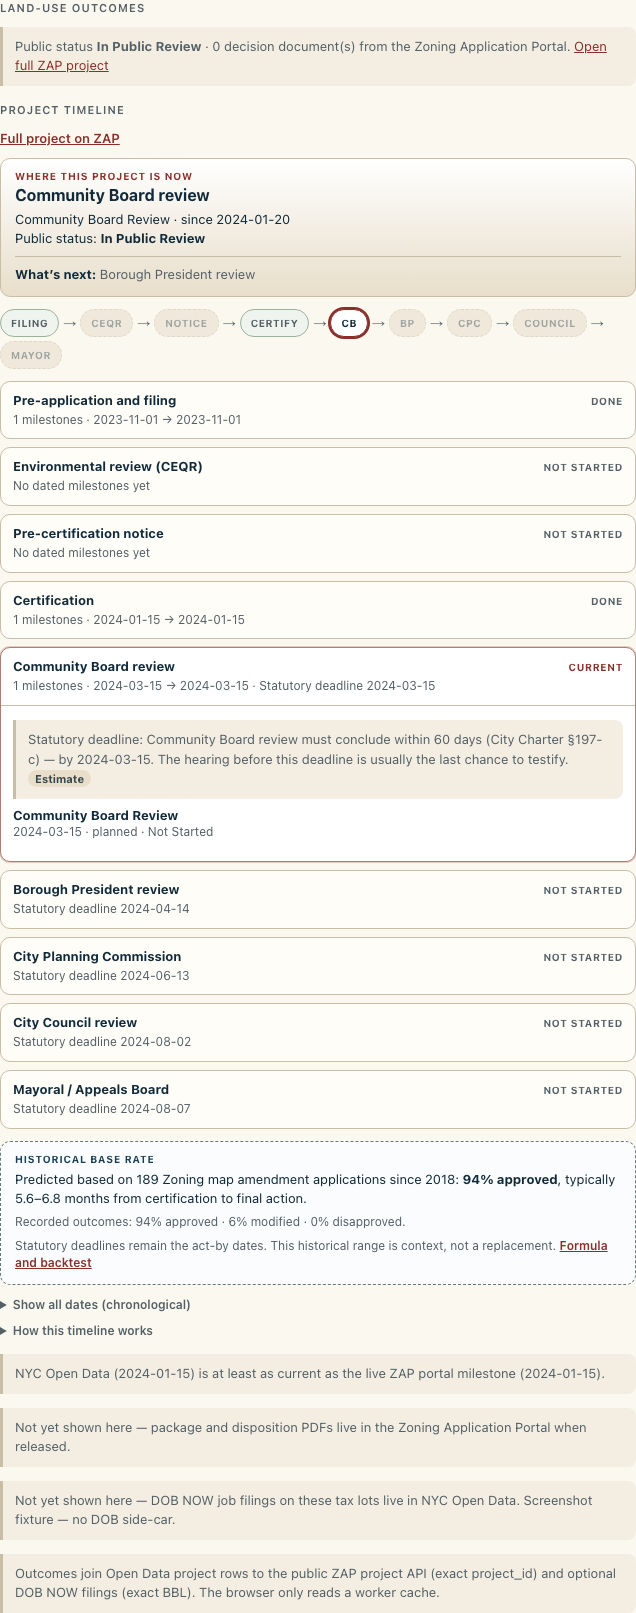
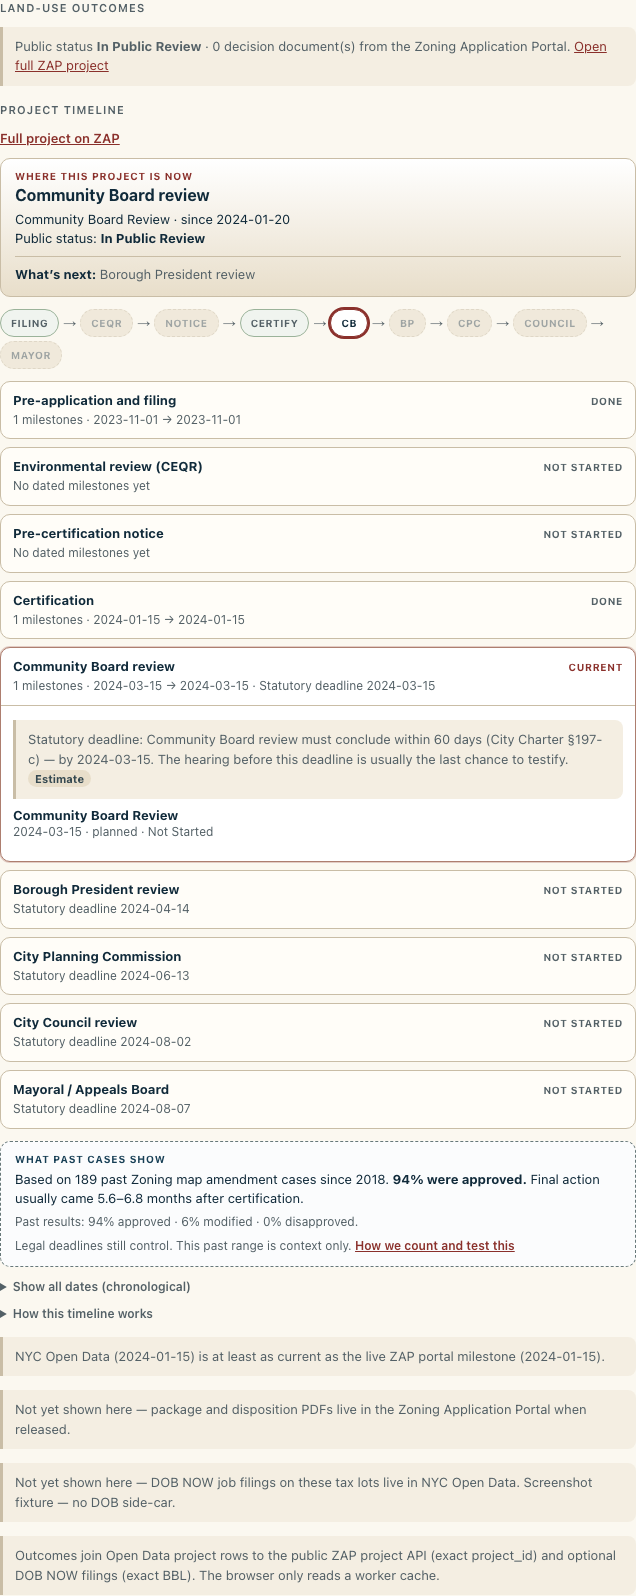
Simplify zoning base-rate copy

diff --git a/site/about.html b/site/about.html
@@ -207,17 +207,17 @@ registration and real payment. Nothing here says anyone did wrong. It just saves
 <h3 id="tax-lien-sale-predictions" data-i18n="about_h_tax_lien_formula">Tax lien sale progression</h3>
 <p class="src" data-i18n-html="about_p_tax_lien_formula_html">Method: <b>borough base rate plus the announced sale date</b>. For each 90-, 60-, 30-, or 10-day stage, the rate is the number of distinct cycle-and-BBL pairs that also appear on that cycle's final sale list, divided by all distinct cycle-and-BBL pairs at that stage. Training requires at least three earlier cycles. A cycle-based holdout runs through the public prediction scorecard. Below the bar, CityScroll shows cohort statistics and observed BBL status, not a property-specific probability. False-positive modes include payment, payment plans, exemptions, corrections, and cancellation of an entire sale cycle. The dataset cannot identify which reason removed a BBL. A final-list match means the <b>lien</b> appeared on the sale list. It does not mean the property was sold, foreclosed, or transferred.</p>
 
-<h2 id="zoning-base-rates">Zoning base rates</h2>
-<p class="src">The historical base rate on a land timeline uses the rematerialized
+<h2 id="zoning-base-rates">What past zoning cases show</h2>
+<p class="src">This line uses past
 <a href="https://data.cityofnewyork.us/City-Government/Zoning-Application-Portal-ZAP-Project-Data/hgx4-8ukb" target="_blank" rel="noopener noreferrer">ZAP Project Data<span class="sr-only"> (opens in new tab)</span></a>
-and public ZAP project-action outcomes. It is an unconditioned base rate: applicant identity is never a cohort field.</p>
+and public action results. It does not use the applicant's name. It does not change a legal deadline.</p>
 <ul class="src" style="margin:8px 0;padding-left:20px">
-  <li><b>Cohort.</b> Start with action type + borough when at least 20 completed projects have both an outcome and usable duration. Otherwise back off to action type citywide, then all action types in the borough, then citywide.</li>
-  <li><b>Duration.</b> Calendar days from certification to final action. The displayed “typically” range is the nearest-rank empirical 25th–75th percentile divided by 30.4375 days per month. The prediction assertion uses the 10th/50th/90th percentiles. Spans over 730 days are excluded as stale date joins.</li>
-  <li><b>Outcome.</b> All approved project actions = approved. A mix of approved and non-approved terminal actions = modified. All disapproved actions = disapproved. Withdrawals and administrative terminations are excluded. Each percentage is its count divided by approved + modified + disapproved projects in the selected cohort.</li>
-  <li><b>Backtest.</b> Train on final actions before January 1, 2024, then score projects certified before that date whose final action came later. The current score is 63 resolved projects, 77.78% inside the nominal 80% interval, with a 35-day median absolute error. The published ship bar is at least 50 resolved predictions and interval coverage within 10 percentage points of 80%.</li>
+  <li><b>Pick a group.</b> We start with the action type and borough. A group needs at least 20 cases. If it is too small, we use that action type across the city. Next we use all action types in the borough. Last, we use all city cases.</li>
+  <li><b>Count the time.</b> We count days from certification to final action. We sort those day counts and take p25 and p75 by nearest rank. We divide by 30.4375 to show months. The date range uses p10, p50, and p90. We leave out gaps over 730 days.</li>
+  <li><b>Count the result.</b> All approved actions make an approved case. All disapproved actions make a disapproved case. A mix is modified. We leave out cases that only show withdrawal or closure. Each rate is its count divided by the total of those three results.</li>
+  <li><b>Test the dates.</b> The model learns from final actions before 2024. It then checks later final actions for projects certified before 2024. It resolved 63 cases. The date range held 77.78% of results. Its target was 80%. The middle date missed by 35 days. A date range needs at least 50 results and coverage from 70% to 90%.</li>
 </ul>
-<p class="src"><b>Authority:</b> NYC Charter §197-c deadlines remain the act-by dates. The statistical line adds historical context. It never moves or replaces a statutory deadline.</p>
+<p class="src"><b>Legal dates still control.</b> NYC Charter §197-c sets the deadlines. The past range is context only.</p>
 
 <h2 data-i18n="about_h_feedback">Send feedback</h2>
 <p class="src" data-i18n="about_p_feedback">Found a bug, want a feature, or have a thought? Send it here. We read everything. No account needed.</p>

diff --git a/site/i18n.js b/site/i18n.js
@@ -1566,12 +1566,12 @@ const STRINGS = {
     land_spine_statutory_due_summary: "Statutory deadline {date}",
     land_spine_statutory_testify_hint: "The hearing before this deadline is usually the last chance to testify.",
     land_spine_statutory_withdrawn_note: "This project was withdrawn — open statutory deadlines are closed.",
-    land_zoning_base_rate_heading: "Historical base rate",
+    land_zoning_base_rate_heading: "What past cases show",
     land_zoning_base_rate_generic_type: "land-use",
-    land_zoning_base_rate_html: "Predicted based on {n} {type} applications since {year}: <b>{approved}% approved</b>, typically {low}–{high} months from certification to final action.",
-    land_zoning_base_rate_outcomes: "Recorded outcomes: {approved}% approved · {modified}% modified · {disapproved}% disapproved.",
-    land_zoning_base_rate_authority_html: "Statutory deadlines remain the act-by dates. This historical range is context, not a replacement. {link}",
-    land_zoning_base_rate_formula_link: "Formula and backtest",
+    land_zoning_base_rate_html: "Based on {n} past {type} cases since {year}. <b>{approved}% were approved.</b> Final action usually came {low}–{high} months after certification.",
+    land_zoning_base_rate_outcomes: "Past results: {approved}% approved · {modified}% modified · {disapproved}% disapproved.",
+    land_zoning_base_rate_authority_html: "Legal deadlines still control. This past range is context only. {link}",
+    land_zoning_base_rate_formula_link: "How we count and test this",
     land_zoning_base_rate_formula_url: "about.html#zoning-base-rates",
     land_phase_pre_application: "Pre-application and filing",
     land_phase_environmental: "Environmental review (CEQR)",

diff --git a/site/i18n/lang/ar.js b/site/i18n/lang/ar.js
@@ -1171,12 +1171,12 @@
     land_spine_statutory_due_summary: "Statutory deadline {date}",
     land_spine_statutory_testify_hint: "The hearing before this deadline is usually the last chance to testify.",
     land_spine_statutory_withdrawn_note: "This project was withdrawn — open statutory deadlines are closed.",
-    land_zoning_base_rate_heading: "Historical base rate",
+    land_zoning_base_rate_heading: "What past cases show",
     land_zoning_base_rate_generic_type: "land-use",
-    land_zoning_base_rate_html: "Predicted based on {n} {type} applications since {year}: <b>{approved}% approved</b>, typically {low}–{high} months from certification to final action.",
-    land_zoning_base_rate_outcomes: "Recorded outcomes: {approved}% approved · {modified}% modified · {disapproved}% disapproved.",
-    land_zoning_base_rate_authority_html: "Statutory deadlines remain the act-by dates. This historical range is context, not a replacement. {link}",
-    land_zoning_base_rate_formula_link: "Formula and backtest",
+    land_zoning_base_rate_html: "Based on {n} past {type} cases since {year}. <b>{approved}% were approved.</b> Final action usually came {low}–{high} months after certification.",
+    land_zoning_base_rate_outcomes: "Past results: {approved}% approved · {modified}% modified · {disapproved}% disapproved.",
+    land_zoning_base_rate_authority_html: "Legal deadlines still control. This past range is context only. {link}",
+    land_zoning_base_rate_formula_link: "How we count and test this",
     land_zoning_base_rate_formula_url: "about.html#zoning-base-rates",
     land_phase_pre_application: "Pre-application and filing",
     land_phase_environmental: "Environmental review (CEQR)",

diff --git a/site/i18n/lang/bn.js b/site/i18n/lang/bn.js
@@ -1164,12 +1164,12 @@
     land_spine_statutory_due_summary: "Statutory deadline {date}",
     land_spine_statutory_testify_hint: "The hearing before this deadline is usually the last chance to testify.",
     land_spine_statutory_withdrawn_note: "This project was withdrawn — open statutory deadlines are closed.",
-    land_zoning_base_rate_heading: "Historical base rate",
+    land_zoning_base_rate_heading: "What past cases show",
     land_zoning_base_rate_generic_type: "land-use",
-    land_zoning_base_rate_html: "Predicted based on {n} {type} applications since {year}: <b>{approved}% approved</b>, typically {low}–{high} months from certification to final action.",
-    land_zoning_base_rate_outcomes: "Recorded outcomes: {approved}% approved · {modified}% modified · {disapproved}% disapproved.",
-    land_zoning_base_rate_authority_html: "Statutory deadlines remain the act-by dates. This historical range is context, not a replacement. {link}",
-    land_zoning_base_rate_formula_link: "Formula and backtest",
+    land_zoning_base_rate_html: "Based on {n} past {type} cases since {year}. <b>{approved}% were approved.</b> Final action usually came {low}–{high} months after certification.",
+    land_zoning_base_rate_outcomes: "Past results: {approved}% approved · {modified}% modified · {disapproved}% disapproved.",
+    land_zoning_base_rate_authority_html: "Legal deadlines still control. This past range is context only. {link}",
+    land_zoning_base_rate_formula_link: "How we count and test this",
     land_zoning_base_rate_formula_url: "about.html#zoning-base-rates",
     land_phase_pre_application: "Pre-application and filing",
     land_phase_environmental: "Environmental review (CEQR)",

diff --git a/site/i18n/lang/es.js b/site/i18n/lang/es.js
@@ -1164,12 +1164,12 @@
     land_spine_statutory_due_summary: "Statutory deadline {date}",
     land_spine_statutory_testify_hint: "The hearing before this deadline is usually the last chance to testify.",
     land_spine_statutory_withdrawn_note: "This project was withdrawn — open statutory deadlines are closed.",
-    land_zoning_base_rate_heading: "Historical base rate",
+    land_zoning_base_rate_heading: "What past cases show",
     land_zoning_base_rate_generic_type: "land-use",
-    land_zoning_base_rate_html: "Predicted based on {n} {type} applications since {year}: <b>{approved}% approved</b>, typically {low}–{high} months from certification to final action.",
-    land_zoning_base_rate_outcomes: "Recorded outcomes: {approved}% approved · {modified}% modified · {disapproved}% disapproved.",
-    land_zoning_base_rate_authority_html: "Statutory deadlines remain the act-by dates. This historical range is context, not a replacement. {link}",
-    land_zoning_base_rate_formula_link: "Formula and backtest",
+    land_zoning_base_rate_html: "Based on {n} past {type} cases since {year}. <b>{approved}% were approved.</b> Final action usually came {low}–{high} months after certification.",
+    land_zoning_base_rate_outcomes: "Past results: {approved}% approved · {modified}% modified · {disapproved}% disapproved.",
+    land_zoning_base_rate_authority_html: "Legal deadlines still control. This past range is context only. {link}",
+    land_zoning_base_rate_formula_link: "How we count and test this",
     land_zoning_base_rate_formula_url: "about.html#zoning-base-rates",
     land_phase_pre_application: "Pre-application and filing",
     land_phase_environmental: "Environmental review (CEQR)",

diff --git a/site/i18n/lang/fr.js b/site/i18n/lang/fr.js
@@ -1246,12 +1246,12 @@
     land_spine_statutory_due_summary: "Statutory deadline {date}",
     land_spine_statutory_testify_hint: "The hearing before this deadline is usually the last chance to testify.",
     land_spine_statutory_withdrawn_note: "This project was withdrawn — open statutory deadlines are closed.",
-    land_zoning_base_rate_heading: "Historical base rate",
+    land_zoning_base_rate_heading: "What past cases show",
     land_zoning_base_rate_generic_type: "land-use",
-    land_zoning_base_rate_html: "Predicted based on {n} {type} applications since {year}: <b>{approved}% approved</b>, typically {low}–{high} months from certification to final action.",
-    land_zoning_base_rate_outcomes: "Recorded outcomes: {approved}% approved · {modified}% modified · {disapproved}% disapproved.",
-    land_zoning_base_rate_authority_html: "Statutory deadlines remain the act-by dates. This historical range is context, not a replacement. {link}",
-    land_zoning_base_rate_formula_link: "Formula and backtest",
+    land_zoning_base_rate_html: "Based on {n} past {type} cases since {year}. <b>{approved}% were approved.</b> Final action usually came {low}–{high} months after certification.",
+    land_zoning_base_rate_outcomes: "Past results: {approved}% approved · {modified}% modified · {disapproved}% disapproved.",
+    land_zoning_base_rate_authority_html: "Legal deadlines still control. This past range is context only. {link}",
+    land_zoning_base_rate_formula_link: "How we count and test this",
     land_zoning_base_rate_formula_url: "about.html#zoning-base-rates",
     land_phase_pre_application: "Pre-application and filing",
     land_phase_environmental: "Environmental review (CEQR)",

diff --git a/site/i18n/lang/ht.js b/site/i18n/lang/ht.js
@@ -1163,12 +1163,12 @@
     land_spine_statutory_due_summary: "Statutory deadline {date}",
     land_spine_statutory_testify_hint: "The hearing before this deadline is usually the last chance to testify.",
     land_spine_statutory_withdrawn_note: "This project was withdrawn — open statutory deadlines are closed.",
-    land_zoning_base_rate_heading: "Historical base rate",
+    land_zoning_base_rate_heading: "What past cases show",
     land_zoning_base_rate_generic_type: "land-use",
-    land_zoning_base_rate_html: "Predicted based on {n} {type} applications since {year}: <b>{approved}% approved</b>, typically {low}–{high} months from certification to final action.",
-    land_zoning_base_rate_outcomes: "Recorded outcomes: {approved}% approved · {modified}% modified · {disapproved}% disapproved.",
-    land_zoning_base_rate_authority_html: "Statutory deadlines remain the act-by dates. This historical range is context, not a replacement. {link}",
-    land_zoning_base_rate_formula_link: "Formula and backtest",
+    land_zoning_base_rate_html: "Based on {n} past {type} cases since {year}. <b>{approved}% were approved.</b> Final action usually came {low}–{high} months after certification.",
+    land_zoning_base_rate_outcomes: "Past results: {approved}% approved · {modified}% modified · {disapproved}% disapproved.",
+    land_zoning_base_rate_authority_html: "Legal deadlines still control. This past range is context only. {link}",
+    land_zoning_base_rate_formula_link: "How we count and test this",
     land_zoning_base_rate_formula_url: "about.html#zoning-base-rates",
     land_phase_pre_application: "Pre-application and filing",
     land_phase_environmental: "Environmental review (CEQR)",

diff --git a/site/i18n/lang/ko.js b/site/i18n/lang/ko.js
@@ -1164,12 +1164,12 @@
     land_spine_statutory_due_summary: "Statutory deadline {date}",
     land_spine_statutory_testify_hint: "The hearing before this deadline is usually the last chance to testify.",
     land_spine_statutory_withdrawn_note: "This project was withdrawn — open statutory deadlines are closed.",
-    land_zoning_base_rate_heading: "Historical base rate",
+    land_zoning_base_rate_heading: "What past cases show",
     land_zoning_base_rate_generic_type: "land-use",
-    land_zoning_base_rate_html: "Predicted based on {n} {type} applications since {year}: <b>{approved}% approved</b>, typically {low}–{high} months from certification to final action.",
-    land_zoning_base_rate_outcomes: "Recorded outcomes: {approved}% approved · {modified}% modified · {disapproved}% disapproved.",
-    land_zoning_base_rate_authority_html: "Statutory deadlines remain the act-by dates. This historical range is context, not a replacement. {link}",
-    land_zoning_base_rate_formula_link: "Formula and backtest",
+    land_zoning_base_rate_html: "Based on {n} past {type} cases since {year}. <b>{approved}% were approved.</b> Final action usually came {low}–{high} months after certification.",
+    land_zoning_base_rate_outcomes: "Past results: {approved}% approved · {modified}% modified · {disapproved}% disapproved.",
+    land_zoning_base_rate_authority_html: "Legal deadlines still control. This past range is context only. {link}",
+    land_zoning_base_rate_formula_link: "How we count and test this",
     land_zoning_base_rate_formula_url: "about.html#zoning-base-rates",
     land_phase_pre_application: "Pre-application and filing",
     land_phase_environmental: "Environmental review (CEQR)",

diff --git a/site/i18n/lang/pl.js b/site/i18n/lang/pl.js
@@ -1182,12 +1182,12 @@
     land_spine_statutory_due_summary: "Statutory deadline {date}",
     land_spine_statutory_testify_hint: "The hearing before this deadline is usually the last chance to testify.",
     land_spine_statutory_withdrawn_note: "This project was withdrawn — open statutory deadlines are closed.",
-    land_zoning_base_rate_heading: "Historical base rate",
+    land_zoning_base_rate_heading: "What past cases show",
     land_zoning_base_rate_generic_type: "land-use",
-    land_zoning_base_rate_html: "Predicted based on {n} {type} applications since {year}: <b>{approved}% approved</b>, typically {low}–{high} months from certification to final action.",
-    land_zoning_base_rate_outcomes: "Recorded outcomes: {approved}% approved · {modified}% modified · {disapproved}% disapproved.",
-    land_zoning_base_rate_authority_html: "Statutory deadlines remain the act-by dates. This historical range is context, not a replacement. {link}",
-    land_zoning_base_rate_formula_link: "Formula and backtest",
+    land_zoning_base_rate_html: "Based on {n} past {type} cases since {year}. <b>{approved}% were approved.</b> Final action usually came {low}–{high} months after certification.",
+    land_zoning_base_rate_outcomes: "Past results: {approved}% approved · {modified}% modified · {disapproved}% disapproved.",
+    land_zoning_base_rate_authority_html: "Legal deadlines still control. This past range is context only. {link}",
+    land_zoning_base_rate_formula_link: "How we count and test this",
     land_zoning_base_rate_formula_url: "about.html#zoning-base-rates",
     land_phase_pre_application: "Pre-application and filing",
     land_phase_environmental: "Environmental review (CEQR)",

diff --git a/site/i18n/lang/ru.js b/site/i18n/lang/ru.js
@@ -1174,12 +1174,12 @@
     land_spine_statutory_due_summary: "Statutory deadline {date}",
     land_spine_statutory_testify_hint: "The hearing before this deadline is usually the last chance to testify.",
     land_spine_statutory_withdrawn_note: "This project was withdrawn — open statutory deadlines are closed.",
-    land_zoning_base_rate_heading: "Historical base rate",
+    land_zoning_base_rate_heading: "What past cases show",
     land_zoning_base_rate_generic_type: "land-use",
-    land_zoning_base_rate_html: "Predicted based on {n} {type} applications since {year}: <b>{approved}% approved</b>, typically {low}–{high} months from certification to final action.",
-    land_zoning_base_rate_outcomes: "Recorded outcomes: {approved}% approved · {modified}% modified · {disapproved}% disapproved.",
-    land_zoning_base_rate_authority_html: "Statutory deadlines remain the act-by dates. This historical range is context, not a replacement. {link}",
-    land_zoning_base_rate_formula_link: "Formula and backtest",
+    land_zoning_base_rate_html: "Based on {n} past {type} cases since {year}. <b>{approved}% were approved.</b> Final action usually came {low}–{high} months after certification.",
+    land_zoning_base_rate_outcomes: "Past results: {approved}% approved · {modified}% modified · {disapproved}% disapproved.",
+    land_zoning_base_rate_authority_html: "Legal deadlines still control. This past range is context only. {link}",
+    land_zoning_base_rate_formula_link: "How we count and test this",
     land_zoning_base_rate_formula_url: "about.html#zoning-base-rates",
     land_phase_pre_application: "Pre-application and filing",
     land_phase_environmental: "Environmental review (CEQR)",

diff --git a/site/i18n/lang/ur.js b/site/i18n/lang/ur.js
@@ -1171,12 +1171,12 @@
     land_spine_statutory_due_summary: "Statutory deadline {date}",
     land_spine_statutory_testify_hint: "The hearing before this deadline is usually the last chance to testify.",
     land_spine_statutory_withdrawn_note: "This project was withdrawn — open statutory deadlines are closed.",
-    land_zoning_base_rate_heading: "Historical base rate",
+    land_zoning_base_rate_heading: "What past cases show",
     land_zoning_base_rate_generic_type: "land-use",
-    land_zoning_base_rate_html: "Predicted based on {n} {type} applications since {year}: <b>{approved}% approved</b>, typically {low}–{high} months from certification to final action.",
-    land_zoning_base_rate_outcomes: "Recorded outcomes: {approved}% approved · {modified}% modified · {disapproved}% disapproved.",
-    land_zoning_base_rate_authority_html: "Statutory deadlines remain the act-by dates. This historical range is context, not a replacement. {link}",
-    land_zoning_base_rate_formula_link: "Formula and backtest",
+    land_zoning_base_rate_html: "Based on {n} past {type} cases since {year}. <b>{approved}% were approved.</b> Final action usually came {low}–{high} months after certification.",
+    land_zoning_base_rate_outcomes: "Past results: {approved}% approved · {modified}% modified · {disapproved}% disapproved.",
+    land_zoning_base_rate_authority_html: "Legal deadlines still control. This past range is context only. {link}",
+    land_zoning_base_rate_formula_link: "How we count and test this",
     land_zoning_base_rate_formula_url: "about.html#zoning-base-rates",
     land_phase_pre_application: "Pre-application and filing",
     land_phase_environmental: "Environmental review (CEQR)",

diff --git a/site/i18n/lang/zh-Hans.js b/site/i18n/lang/zh-Hans.js
@@ -1164,12 +1164,12 @@
     land_spine_statutory_due_summary: "法定截止日期 {date}",
     land_spine_statutory_testify_hint: "在此截止日期前举行的听证会通常是作证的最后机会。",
     land_spine_statutory_withdrawn_note: "该项目已撤回——未完成的法定期限已关闭。",
-    land_zoning_base_rate_heading: "历史估算",
+    land_zoning_base_rate_heading: "过去案例",
     land_zoning_base_rate_generic_type: "土地使用",
-    land_zoning_base_rate_html: "根据自 {year} 年以来的 {n} 宗{type}申请预测：<b>{approved}% 获批</b>；从认证到最终行动通常需要 {low}–{high} 个月。",
-    land_zoning_base_rate_outcomes: "记录结果：{approved}% 获批 · {modified}% 修改后获批 · {disapproved}% 未获批。",
-    land_zoning_base_rate_authority_html: "法定截止日期仍是必须遵守的行动日期；此历史范围仅供参考，不能取代法定期限。{link}",
-    land_zoning_base_rate_formula_link: "公式与回测",
+    land_zoning_base_rate_html: "根据自 {year} 年以来的 {n} 宗{type}案例。<b>{approved}% 获批。</b> 从认证到最终行动通常为 {low}–{high} 个月。",
+    land_zoning_base_rate_outcomes: "过去结果：{approved}% 获批 · {modified}% 修改后获批 · {disapproved}% 未获批。",
+    land_zoning_base_rate_authority_html: "法定期限仍有效。过去案例的范围仅供参考。{link}",
+    land_zoning_base_rate_formula_link: "查看计算和测试方法",
     land_zoning_base_rate_formula_url: "about.html#zoning-base-rates",
     land_phase_pre_application: "预申请与提交",
     land_phase_environmental: "环境审查（CEQR）",
